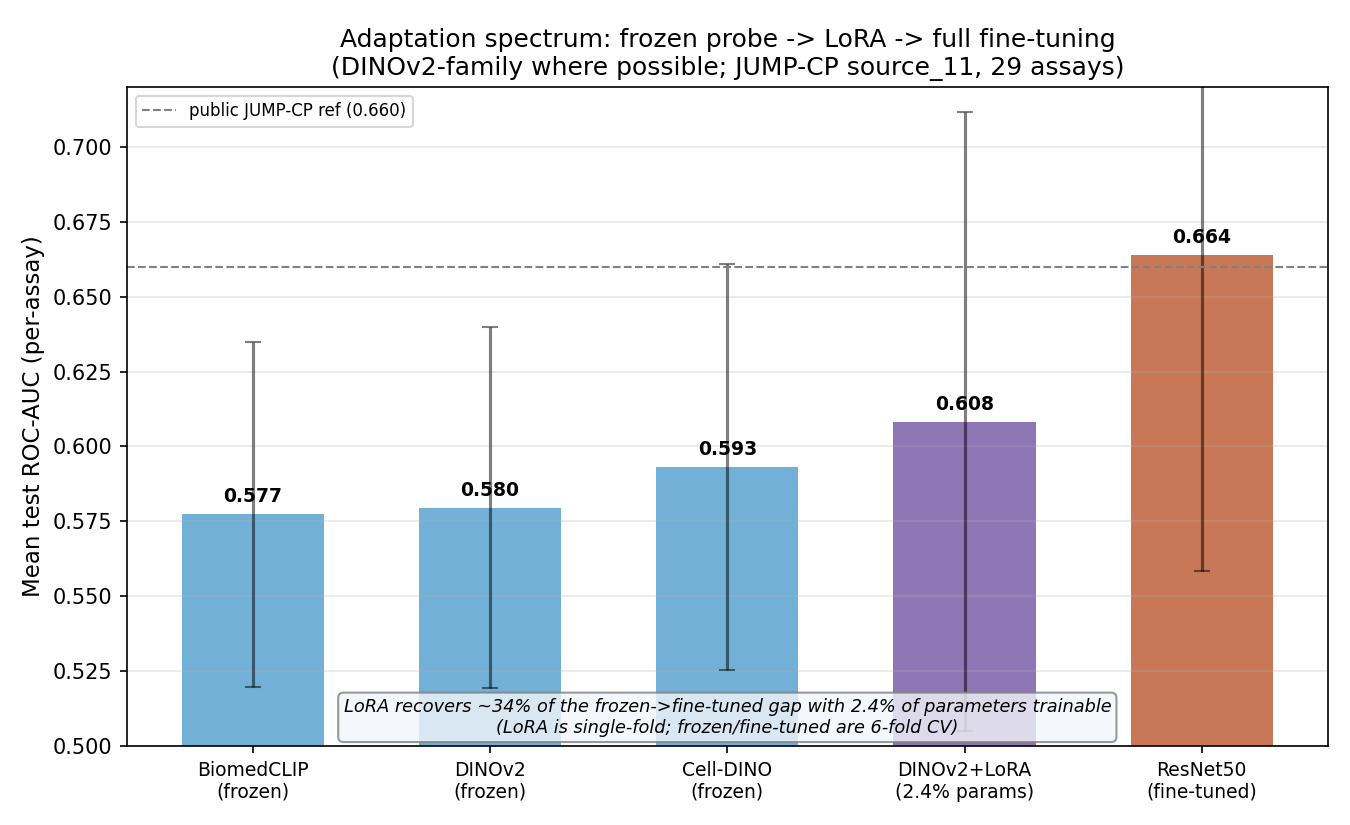
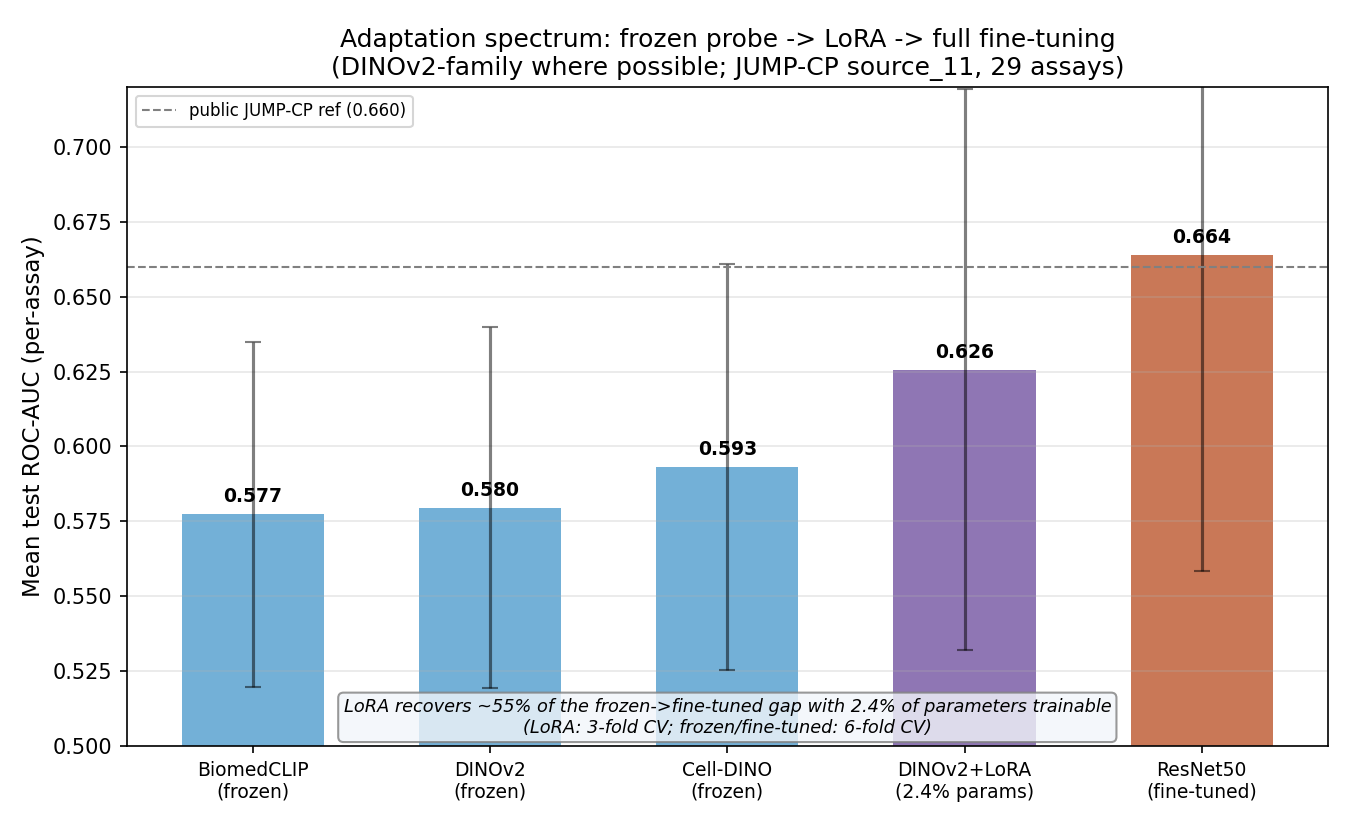
Auto-discover LoRA fold results in adaptation figure (3-fold CV: 0.6257, was single-fold 0.608); fix f-string syntax for py3.10 compat

Changed region(s): [[0.3733, 0.8485, 0.7156, 0.9091], [0.6533, 0.4242, 0.7778, 0.5152]]

diff --git a/make_adaptation_figure.py b/make_adaptation_figure.py
@@ -3,18 +3,23 @@
 make_adaptation_figure.py
 
 Figure D — the adaptation spectrum: frozen linear probe -> LoRA -> full fine-tuning.
-Places the LoRA-adapted DINOv2 (single fold) between the frozen backbones (6-fold CV)
+Places the LoRA-adapted DINOv2 (partial CV, folds as available) between the frozen backbones (6-fold CV)
 and the fine-tuned ResNet (6-fold CV), showing how much of the frozen->fine-tuned gap
 cheap adaptation (2.4% of parameters) recovers.
 
 Also writes the LoRA per-assay AUCs to results/cv/lora_vit_s_r224/cv_per_assay.csv in the
 standard format (for reference / optional inclusion elsewhere).
 
-LoRA per-assay AUCs are hard-coded from the fold-0 test evaluation (single fold; the other
-arms are 6-fold means, so LoRA is shown as a distinct regime point, not mixed into the
-6-fold statistical comparison in Figure B).
+LoRA per-assay AUCs are auto-discovered from whatever bioact_lora_vit_s_r224_fold*
+test evaluations exist on disk (results/bioact_lora_vit_s_r224_fold*/plots/per_assay_auc.csv),
+averaged per assay, and written to results/cv/lora_vit_s_r224/cv_per_assay.csv in the
+standard format. LoRA is shown as a distinct regime point (frozen probe -> LoRA -> full
+fine-tuning), not mixed into the 6-fold statistical comparison in Figure B. As more LoRA
+folds complete, re-running this script picks them up automatically -- no manual edits needed.
 """
 import os
+import glob
+import re
 import numpy as np
 import pandas as pd
 import matplotlib
@@ -26,29 +31,36 @@ OUTDIR = os.environ.get("BIOACT_FIGDIR", os.path.join(RESULTS, "figures"))
 os.makedirs(OUTDIR, exist_ok=True)
 FOLD_COLS = ["fold0", "fold1", "fold2", "fold3", "fold4", "fold5"]
 
-# --- LoRA fold-0 per-assay AUCs (from test evaluation) ---
-LORA_ASSAYS = {
-    '688128': 0.5881481481481482, '688238': 0.5557894736842105, '688360': 0.7482517482517483,
-    '688546': 0.33777777777777773, '688549': 0.6307692307692309, '688612': 0.5879699248120301,
-    '688687': 0.5666666666666667, '688812': 0.5527426160337553, '688816': 0.6478899952584163,
-    '736947': 0.5620253164556962, '737187': 0.5719298245614036, '737287': 0.6006944444444444,
-    '737344': 0.5457128099173554, '752347': 0.4876543209876543, '752407': 0.5866012440598076,
-    '752434': 0.79375, '752493': 0.5442424242424242, '752563': 0.5398166023166022,
-    '752590': 0.6918441558441559, '752594': 0.7204116638078902, '845045': 0.6793032786885245,
-    '845102': 0.5958333333333333, '845164': 0.6725352112676056, '845169': 0.7705882352941177,
-    '845173': 0.43103448275862066, '845177': 0.7632432432432433, '845196': 0.6958333333333333,
-    '954338': 0.5108225108225108, '1495346': 0.658102766798419,
-}
-lora_vals = np.array(list(LORA_ASSAYS.values()))
+# --- auto-discover LoRA fold per-assay AUCs from whatever folds exist ---
+lora_fold_dfs = {}
+for path in sorted(glob.glob(os.path.join(RESULTS, "bioact_lora_vit_s_r224_fold*", "plots", "per_assay_auc.csv"))):
+    m = re.search(r"fold(\d+)", path)
+    if not m:
+        continue
+    fold_n = int(m.group(1))
+    df = pd.read_csv(path, index_col=0)
+    lora_fold_dfs[fold_n] = df["test_roc_auc"]
 
-# write LoRA per-assay CSV (single fold -> one column + mean)
+if not lora_fold_dfs:
+    raise SystemExit("No LoRA fold per_assay_auc.csv files found -- run make_plots_v3.py on at least one fold first.")
+
+lora_wide = pd.DataFrame(lora_fold_dfs).sort_index(axis=1)
+lora_wide.columns = [f"fold{c}" for c in lora_wide.columns]
+lora_wide = lora_wide.sort_index()  # sort by assay label for a stable, readable CSV
+lora_wide["mean"] = lora_wide.mean(axis=1)
+lora_wide["std"] = lora_wide[[c for c in lora_wide.columns if c.startswith("fold")]].std(axis=1)
+
+n_lora_folds = len([c for c in lora_wide.columns if c.startswith("fold")])
+lora_vals = lora_wide["mean"].values
+
 lora_dir = os.path.join(RESULTS, "cv", "lora_vit_s_r224")
 os.makedirs(lora_dir, exist_ok=True)
-lora_df = pd.DataFrame({"assay": [f"assay_{i}" for i in range(len(lora_vals))],
-                        "fold0": lora_vals, "mean": lora_vals,
-                        "std": np.zeros_like(lora_vals)}).set_index("assay")
-lora_df.to_csv(os.path.join(lora_dir, "cv_per_assay.csv"))
-print(f"wrote {lora_dir}/cv_per_assay.csv  (mean {lora_vals.mean():.4f})")
+lora_wide.to_csv(os.path.join(lora_dir, "cv_per_assay.csv"))
+fold_level_means = [lora_wide[c].mean() for c in lora_wide.columns if c.startswith("fold")]
+fold_level_std = np.std(fold_level_means)
+print(f"wrote {lora_dir}/cv_per_assay.csv  "
+      f"(n_folds={n_lora_folds}, mean {lora_vals.mean():.4f}, "
+      f"fold-level std {fold_level_std:.4f})")
 
 
 def per_assay_means(arm_key):
@@ -105,7 +117,7 @@ ft = per_assay_means("resnet_r224").mean()
 recovered = 100 * (lora_m - frozen_dino) / (ft - frozen_dino)
 ax.text(0.5, 0.02,
         f"LoRA recovers ~{recovered:.0f}% of the frozen->fine-tuned gap "
-        f"with 2.4% of parameters trainable\n(LoRA is single-fold; frozen/fine-tuned are 6-fold CV)",
+        f"with 2.4% of parameters trainable\n(LoRA: {n_lora_folds}-fold CV; frozen/fine-tuned: 6-fold CV)",
         transform=ax.transAxes, ha="center", fontsize=8.5, style="italic",
         bbox=dict(boxstyle="round", fc="#F2F5FA", ec="grey", alpha=0.8))
 
